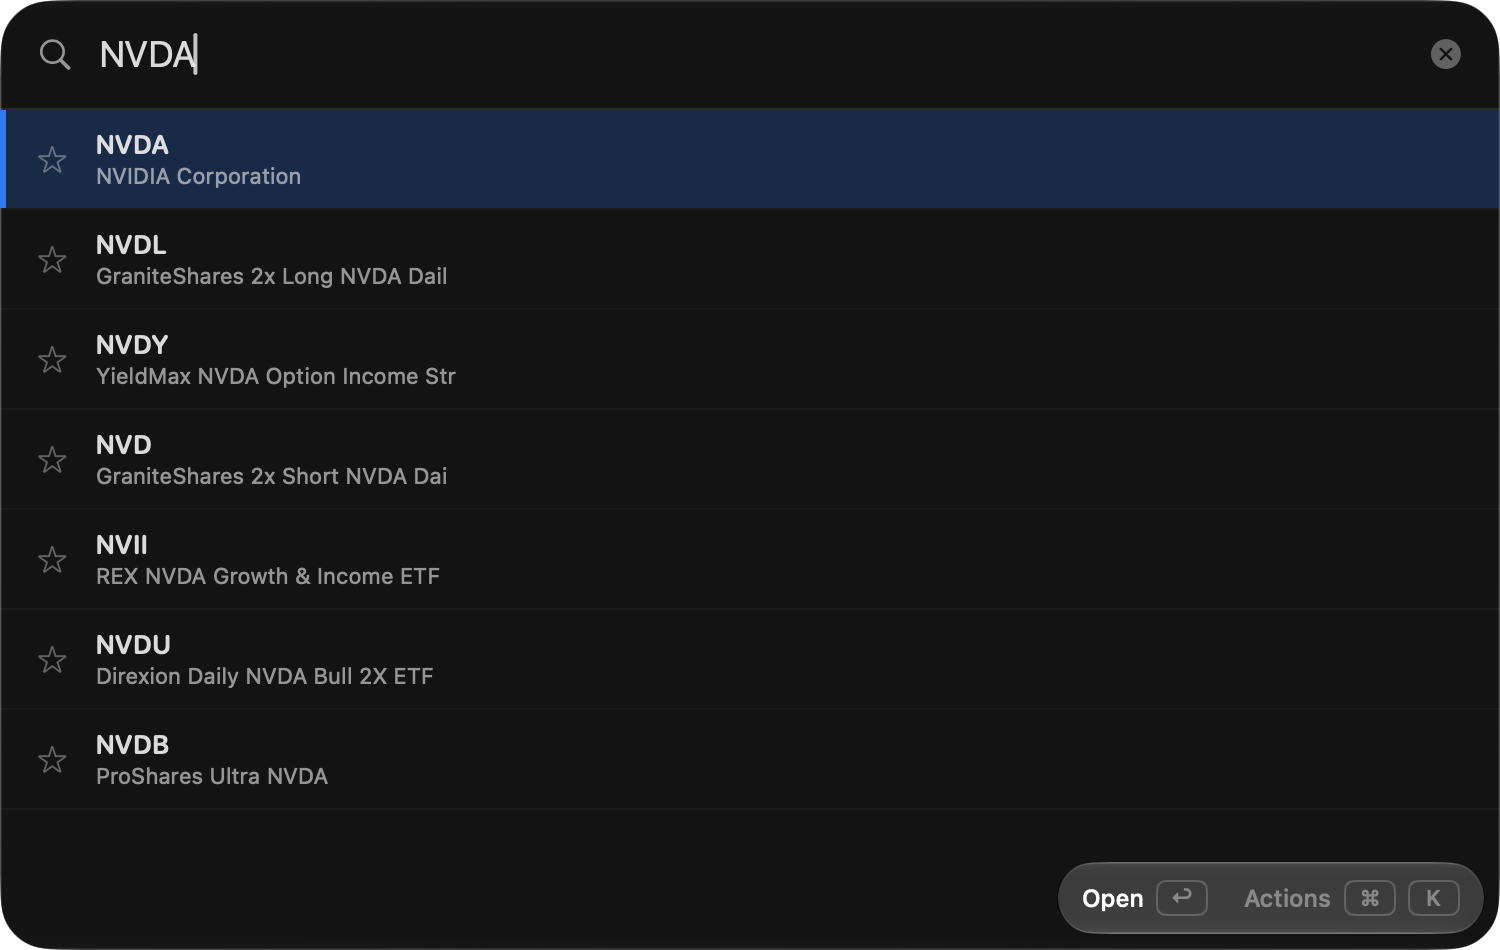
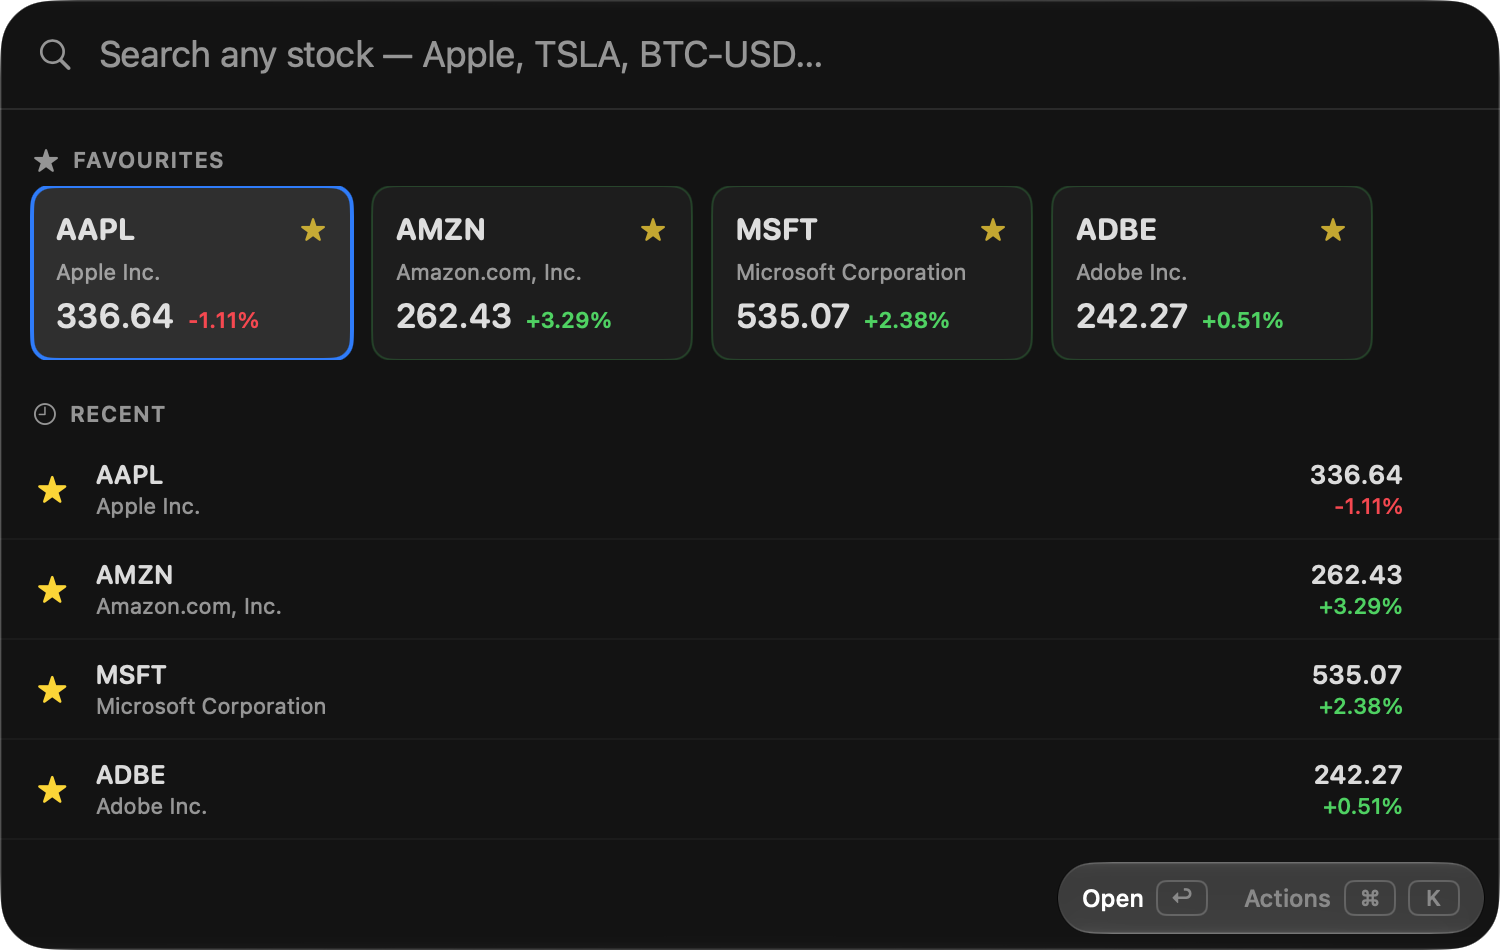
Show Stock Quotes with its favourites and a stock's detail view
The README's Stock Quotes screenshot was a bare search; it now shows the
favourites and recent lists, and a stock's chart with its figures.

Claude-Session: https://claude.ai/code/session_01LsYfibD3hkAyfUHbHGeVFJ

diff --git a/README.md b/README.md
@@ -72,12 +72,21 @@ And the rest:
 <tr>
 <td width="50%" valign="top">
 <img src="docs/screenshots/plugin-stock-quotes.png" alt="Stock Quotes">
-<p><b>Stock Quotes</b>: live prices, charts, favourites and a watchlist.</p>
+<p><b>Stock Quotes</b>: search any stock, fund or coin, star your favourites, and keep the recent
+ones a keystroke away.</p>
 </td>
 <td width="50%" valign="top">
+<img src="docs/screenshots/plugin-stock-quotes-detail.png" alt="A stock's detail view in Stock Quotes">
+<p>Open one for its chart from one day to all time, with the open, high, low, market cap, P/E and
+52-week range.</p>
+</td>
+</tr>
+<tr>
+<td valign="top">
 <img src="docs/screenshots/plugin-snake.png" alt="Snake">
 <p><b>Snake</b>: retro snake, right in the palette.</p>
 </td>
+<td></td>
 </tr>
 </table>
 
